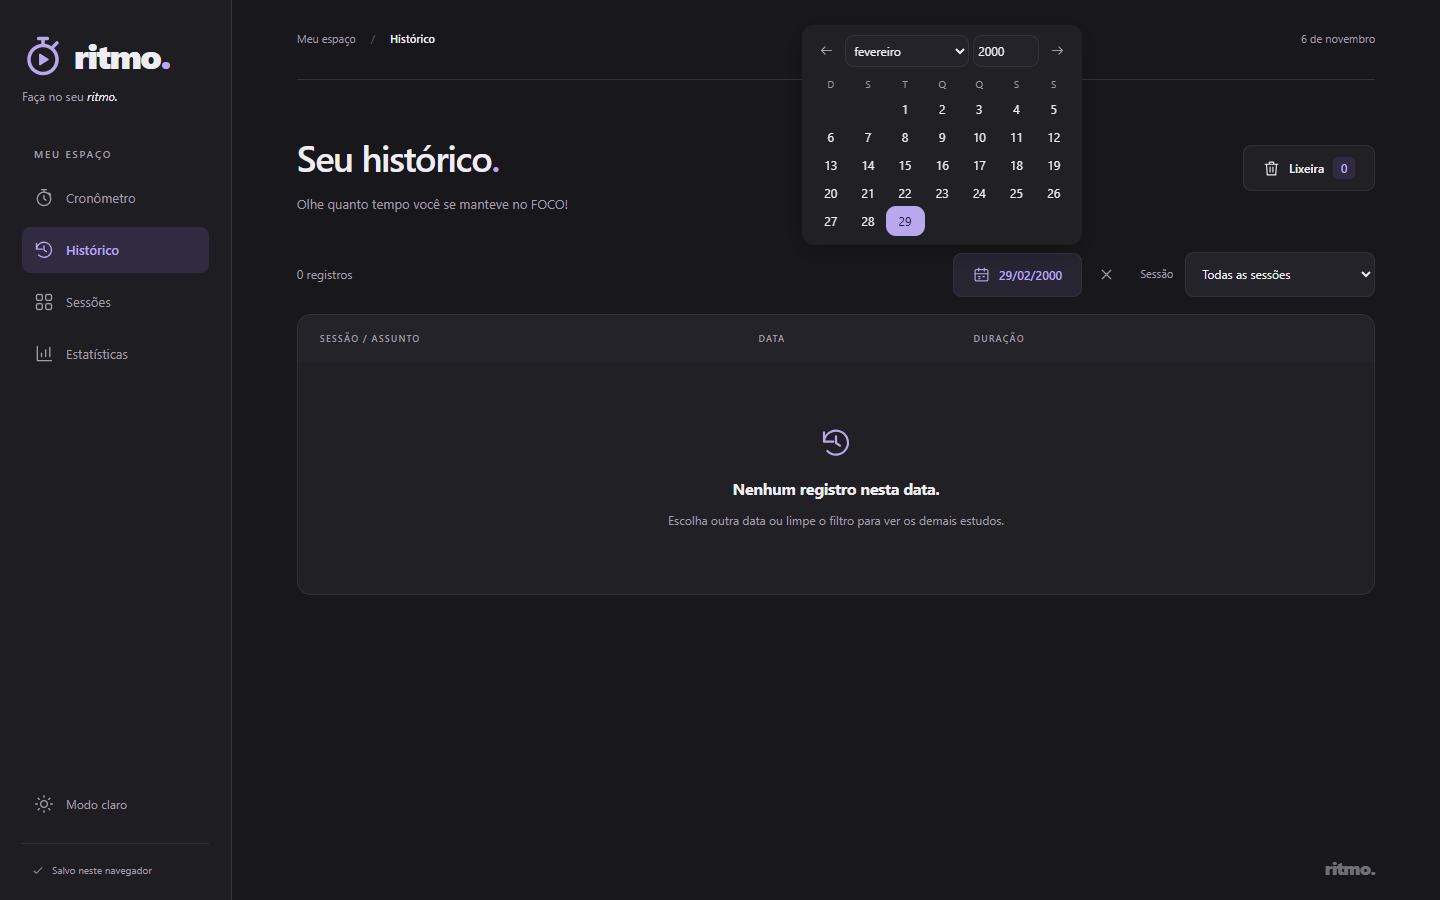
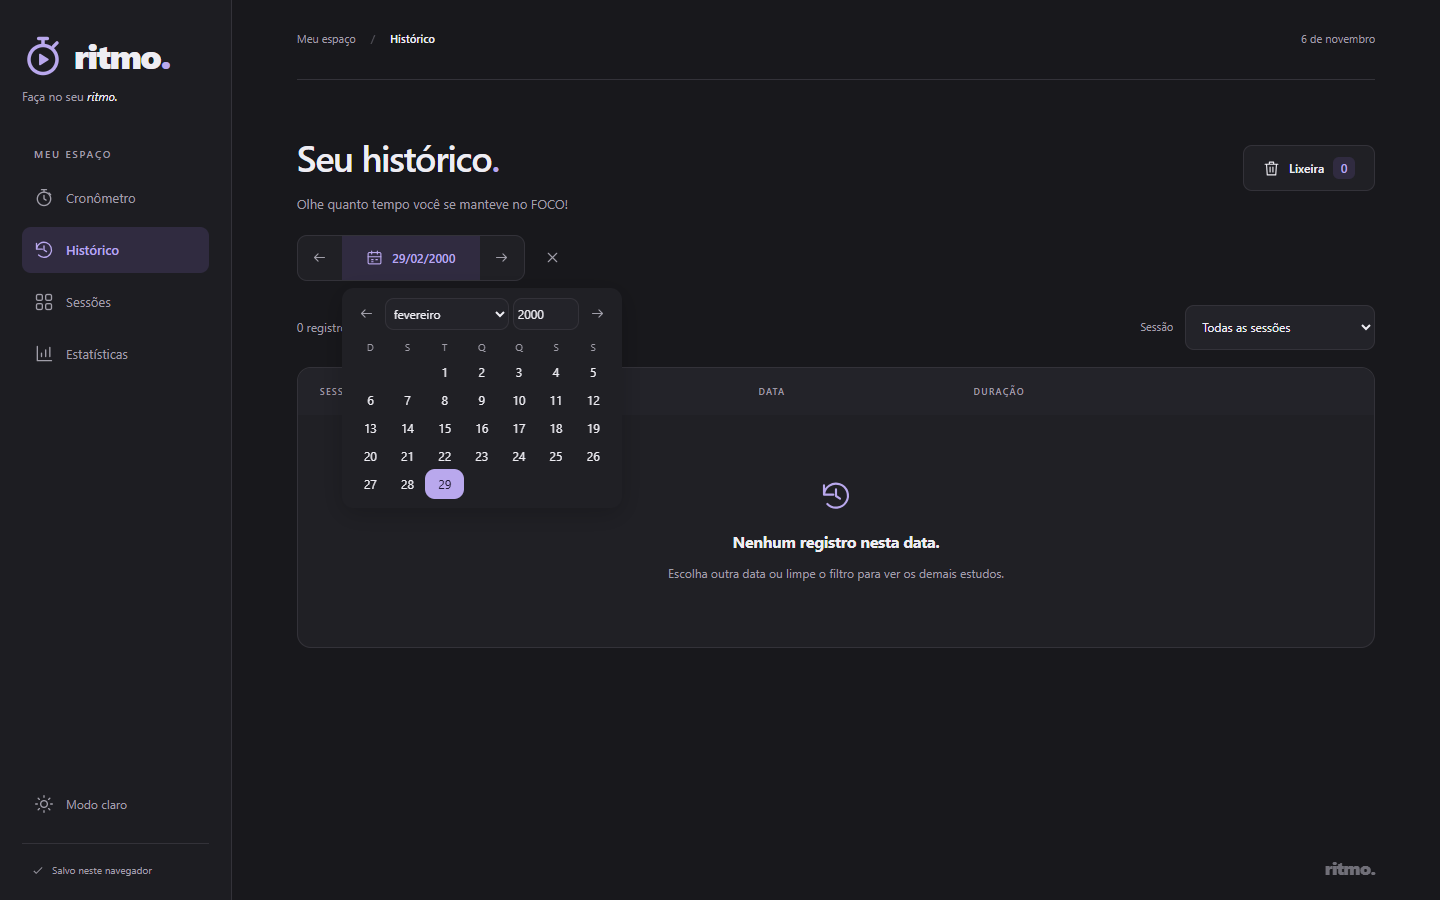
Melhora a data no histórico

diff --git a/dist/views.js b/dist/views.js
@@ -54,9 +54,10 @@ const views = {
     </section>`,
   history: `
     <section class="content-view" aria-labelledby="page-title">
-      <div class="page-heading"><div><h1 id="page-title">Seu histórico<span>.</span></h1><p>Olhe quanto tempo você se manteve no FOCO!</p></div><button id="toggle-trash" class="secondary" aria-expanded="false" aria-controls="trash-panel">${icon('trash')} Lixeira <span id="trash-count" class="count-badge">0</span></button></div>
+      <div class="page-heading history-heading"><div><h1 id="page-title">Seu histórico<span>.</span></h1><p>Olhe quanto tempo você se manteve no FOCO!</p></div><button id="toggle-trash" class="secondary" aria-expanded="false" aria-controls="trash-panel">${icon('trash')} Lixeira <span id="trash-count" class="count-badge">0</span></button></div>
+      <div class="history-date-navigation"><div class="history-day-switcher" role="group" aria-label="Data do histórico"><button type="button" id="previous-history-day" class="icon-button" aria-label="Dia anterior">${icon('arrow')}</button><button type="button" id="toggle-history-date" class="secondary" aria-expanded="false" aria-controls="history-date-panel" aria-label="Escolher data do histórico">${icon('calendar')}<span id="history-date-label" aria-live="polite">Hoje</span></button><button type="button" id="next-history-day" class="icon-button" aria-label="Próximo dia">${icon('arrow')}</button></div><button type="button" id="clear-history-date" class="icon-button" aria-label="Limpar filtro de data" title="Limpar data" hidden>${icon('close')}</button></div>
       <section id="trash-panel" class="trash-panel panel" aria-labelledby="trash-title" hidden><div class="trash-heading"><div><h2 id="trash-title">Lixeira</h2><p>Itens excluídos ficam aqui por 15 dias. Restaurar também recupera o tempo nos totais.</p></div></div><div id="trash-list"></div><p id="empty-trash" class="trash-empty">A lixeira está vazia.</p></section>
-      <div class="section-toolbar history-toolbar"><span id="history-count" role="status"></span><div class="history-filters"><div class="history-date-actions"><button type="button" id="toggle-history-date" class="secondary" aria-expanded="false" aria-controls="history-date-panel" aria-label="Filtrar histórico por data">${icon('calendar')}<span id="history-date-label">Data</span></button><button type="button" id="clear-history-date" class="icon-button" aria-label="Limpar filtro de data" title="Limpar data" hidden>${icon('close')}</button></div><label class="filter-label" for="history-filter">Sessão<select id="history-filter"><option value="">Todas as sessões</option></select></label></div></div>
+      <div class="section-toolbar history-toolbar"><span id="history-count" role="status"></span><label class="filter-label" for="history-filter">Sessão<select id="history-filter"><option value="">Todas as sessões</option></select></label></div>
       <input type="hidden" id="history-date"><div id="history-date-panel" class="history-date-panel" role="dialog" aria-label="Escolher data do histórico" hidden></div>
       <div class="table-wrap"><table><caption class="sr-only">Registros de estudo concluídos</caption><thead><tr><th scope="col">SESSÃO / ASSUNTO</th><th scope="col">DATA</th><th scope="col">DURAÇÃO</th><th scope="col"><span class="sr-only">Ações</span></th></tr></thead><tbody id="sessions"></tbody></table><div id="empty-history" class="empty">${icon('history')}<h2>Seu primeiro estudo começa agora.</h2><p>Os estudos concluídos aparecerão aqui.</p><a href="index.html" class="text-link">Ir para o cronômetro ${icon('arrow')}</a></div></div>
       <div class="history-footer"><button id="show-more" class="secondary" hidden>Mostrar mais registros</button></div>

diff --git a/dist/app.js b/dist/app.js
@@ -107,11 +107,14 @@ function renderHistory() {
   const filter = $('#history-filter').value;
   const selectedDate = $('#history-date').value;
   const sessions = state.sessions.filter(s => (!filter || s.folderId === filter) && (!selectedDate || localDayKey(new Date(s.startedAt)) === selectedDate)).sort((a, b) => Date.parse(b.startedAt) - Date.parse(a.startedAt));
-  const dateLabel = selectedDate ? selectedDate.split('-').reverse().join('/') : 'Data';
+  const formattedDate = selectedDate.split('-').reverse().join('/');
+  const dateLabel = selectedDate ? (selectedDate === localDayKey(new Date()) ? 'Hoje' : formattedDate) : 'Todas as datas';
   $('#history-date-label').textContent = dateLabel;
-  $('#toggle-history-date').setAttribute('aria-label', selectedDate ? `Alterar data do histórico: ${dateLabel}` : 'Filtrar histórico por data');
+  $('#toggle-history-date').setAttribute('aria-label', selectedDate ? `Alterar data do histórico: ${dateLabel === 'Hoje' ? 'Hoje, ' : ''}${formattedDate}` : 'Filtrar histórico por data');
   $('#toggle-history-date').classList.toggle('date-selected', !!selectedDate);
   $('#clear-history-date').hidden = !selectedDate;
+  $('#previous-history-day').disabled = selectedDate === '0001-01-01';
+  $('#next-history-day').disabled = selectedDate === '9999-12-31';
   $('#sessions').innerHTML = sessions.slice(0, limit).map(s => {
     const f = folder(s.folderId), date = new Date(s.startedAt);
     return `<tr><td><span class="record-name">${symbolMarkup(f)}${escape(f.name)}</span><small>${escape(s.description || 'Registro de estudo')}</small></td><td>${date.toLocaleDateString('pt-BR', {day:'2-digit', month:'short', year:'numeric'})}<small>${date.toLocaleTimeString('pt-BR', {hour:'2-digit', minute:'2-digit'})}</small></td><td>${clock(s.duration)}</td><td><div class="row-actions"><button class="icon-button" data-edit-session="${escape(s.id)}" aria-label="Editar registro de ${escape(f.name)}">${icon('edit')}</button><button class="icon-button danger" data-delete-session="${escape(s.id)}" aria-label="Excluir registro de ${escape(f.name)}">${icon('trash')}</button></div></td></tr>`;

diff --git a/dist/history-calendar.js b/dist/history-calendar.js
@@ -5,6 +5,7 @@ export function createHistoryCalendar(onChange) {
   const button = document.querySelector('#toggle-history-date');
   const panel = document.querySelector('#history-date-panel');
   const value = document.querySelector('#history-date');
+  value.value = localDayKey(new Date());
   button.setAttribute('aria-haspopup', 'dialog');
   const months = Array.from({length:12}, (_, month) => new Date(2024, month, 1).toLocaleDateString('pt-BR', {month:'long'}));
   panel.innerHTML = `<div class="calendar-heading">
@@ -27,9 +28,9 @@ export function createHistoryCalendar(onChange) {
   function position() {
     if (panel.hidden) return;
     const anchor = button.getBoundingClientRect();
-    panel.style.left = `${Math.max(8, Math.min(anchor.right-panel.offsetWidth, innerWidth-panel.offsetWidth-8))}px`;
-    panel.style.bottom = `${innerHeight-anchor.top+8}px`;
-    panel.style.maxHeight = `${Math.max(0, anchor.top-16)}px`;
+    panel.style.left = `${Math.max(8, Math.min(anchor.left, innerWidth-panel.offsetWidth-8))}px`;
+    panel.style.top = `${anchor.bottom+8}px`;
+    panel.style.maxHeight = `${Math.max(0, innerHeight-anchor.bottom-16)}px`;
   }
   function draw(focus = false) {
     const year = focusedDate.getFullYear(), month = focusedDate.getMonth();
@@ -59,6 +60,16 @@ export function createHistoryCalendar(onChange) {
     button.setAttribute('aria-expanded', 'true');
     draw(true);
   };
+  function stepDay(offset) {
+    const current = value.value ? new Date(`${value.value}T12:00:00`) : new Date();
+    const next = dateAt(current.getFullYear(), current.getMonth(), current.getDate()+offset);
+    if (next.getFullYear()<1 || next.getFullYear()>9999) return;
+    value.value = localDayKey(next);
+    close(false);
+    onChange();
+  }
+  document.querySelector('#previous-history-day').onclick = () => stepDay(-1);
+  document.querySelector('#next-history-day').onclick = () => stepDay(1);
   function changeMonth(year, month) {
     const next = dateAt(year, month, 1);
     if (next.getFullYear()<1 || next.getFullYear()>9999) return;

diff --git a/dist/style.css b/dist/style.css
@@ -110,10 +110,13 @@ details input { margin-top: 10px; font-size: 12px; }
 .filter-label { margin: 0; display: flex; gap: 12px; align-items: center; font-weight: 400; font-size: 11px; }
 .filter-label select { width: 190px; font-size: 12px; }
 .history-toolbar { flex-wrap: wrap; }
-.history-filters { display: flex; flex-wrap: wrap; align-items: flex-end; justify-content: flex-end; gap: 12px; margin-left: auto; }
-.history-date-actions { display: flex; align-items: center; gap: 2px; }
-.history-date-actions .icon-button { min-width: 44px; min-height: 44px; }
-.history-date-actions .date-selected { color: var(--accent); background: var(--soft); }
+.history-heading { margin-bottom: 20px; }
+.history-date-navigation { display: flex; align-items: center; gap: 6px; margin-bottom: 24px; }
+.history-day-switcher { display: inline-flex; align-items: center; border: 1px solid var(--line); border-radius: 10px; background: var(--panel); }
+.history-date-navigation .icon-button { min-width: 44px; min-height: 44px; }
+.history-day-switcher .secondary { min-width: 138px; padding-inline: 12px; border: 0; border-radius: 0; font-variant-numeric: tabular-nums; }
+.history-day-switcher .date-selected { color: var(--accent); background: var(--soft); }
+#previous-history-day .icon { transform: rotate(180deg); }
 .history-date-panel { position: fixed; z-index: 30; width: 280px; max-width: calc(100vw - 16px); padding: 10px; overflow-y: auto; border-radius: 12px; background: var(--panel); color: var(--ink); box-shadow: 0 6px 24px #0003; }
 .calendar-heading { display: flex; align-items: center; gap: 4px; margin-bottom: 6px; }
 .calendar-heading .icon-button { min-width: 28px; min-height: 32px; }

diff --git a/README.md b/README.md
@@ -16,7 +16,7 @@ Abra **http://localhost:3000**. Não é necessário instalar dependências para 
 ## Páginas
 
 - **Cronômetro** (`index.html`): escolha uma sessão e clique em **Iniciar estudo**. O assunto opcional fica em **Adicionar assunto**. Você pode pausar, retomar e encerrar; encerrar salva um registro no histórico.
-- **Histórico** (`historico.html`): consulte, filtre e edite registros concluídos. O botão **Data** abre um único calendário acima do botão, com seleção de mês, ano e dia, combinado com o filtro de sessão. O painel fecha ao escolher um dia, clicar fora ou pressionar Escape. A data considera o início do estudo no fuso local; o botão **Limpar data** remove esse filtro. Os filtros não alteram os dados salvos e reiniciam ao recarregar a página. Exclusões vão para a **Lixeira**, onde podem ser restauradas por 15 dias.
+- **Histórico** (`historico.html`): consulte, filtre e edite registros concluídos. O controle de data fica abaixo da introdução e começa em **Hoje**, mostrando os registros desse dia. As setas avançam ou voltam um dia; o botão central mostra a data selecionada e abre um calendário abaixo dele, com seleção de mês, ano e dia. O filtro funciona em conjunto com a sessão escolhida. O painel fecha ao escolher um dia, clicar fora ou pressionar Escape. A data considera o início do estudo no fuso local; o botão **Limpar data** permite consultar todas as datas. Os filtros não alteram os dados salvos e reiniciam ao recarregar a página. Exclusões vão para a **Lixeira**, onde podem ser restauradas por 15 dias.
 - **Sessões** (`pastas.html`): organize as matérias, escolha cores, ícones ou emojis e consulte o tempo de cada sessão. **Estudar** seleciona a sessão e abre o cronômetro. O endereço antigo foi mantido para preservar links.
 - **Estatísticas** (`estatisticas.html`): painel interativo com filtros de 7, 30 ou 90 dias, todo o período ou datas personalizadas, e filtro por sessão. Consulte tempo de foco, quantidade de estudos, média diária, dias ativos e comparação com o período anterior. Explore a evolução temporal, participação por sessão, calendário de atividade, médias por dia da semana e destaques do período. Selecione barras ou dias para ver os registros correspondentes; selecione uma sessão no ranking para filtrar o painel. **Exportar CSV** baixa os registros do recorte atual, incluindo a seleção do gráfico.
 
